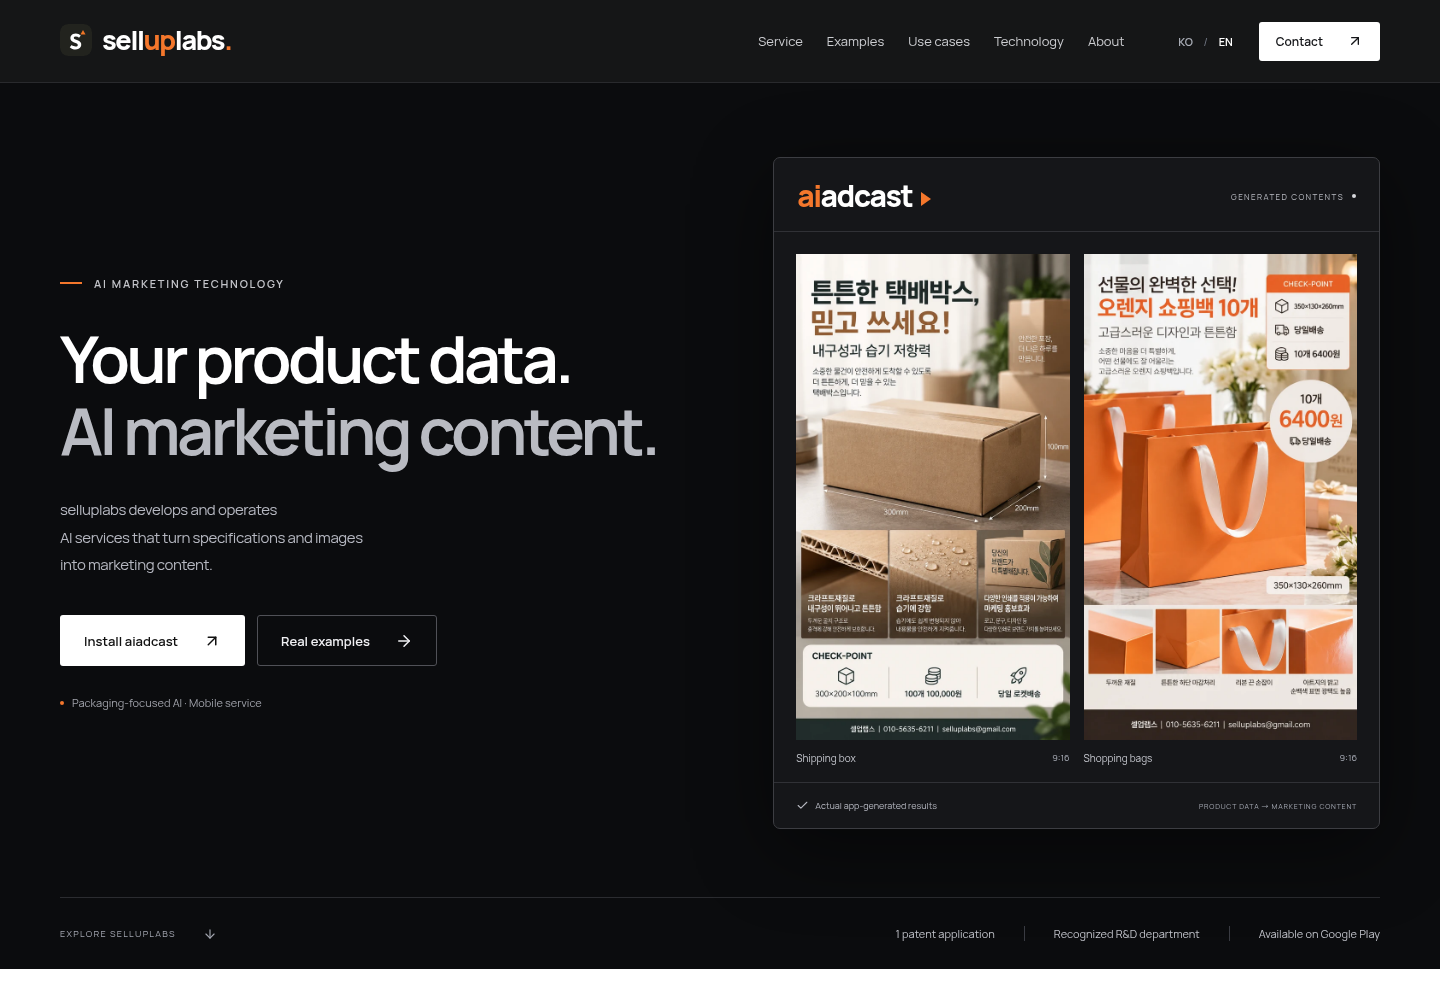
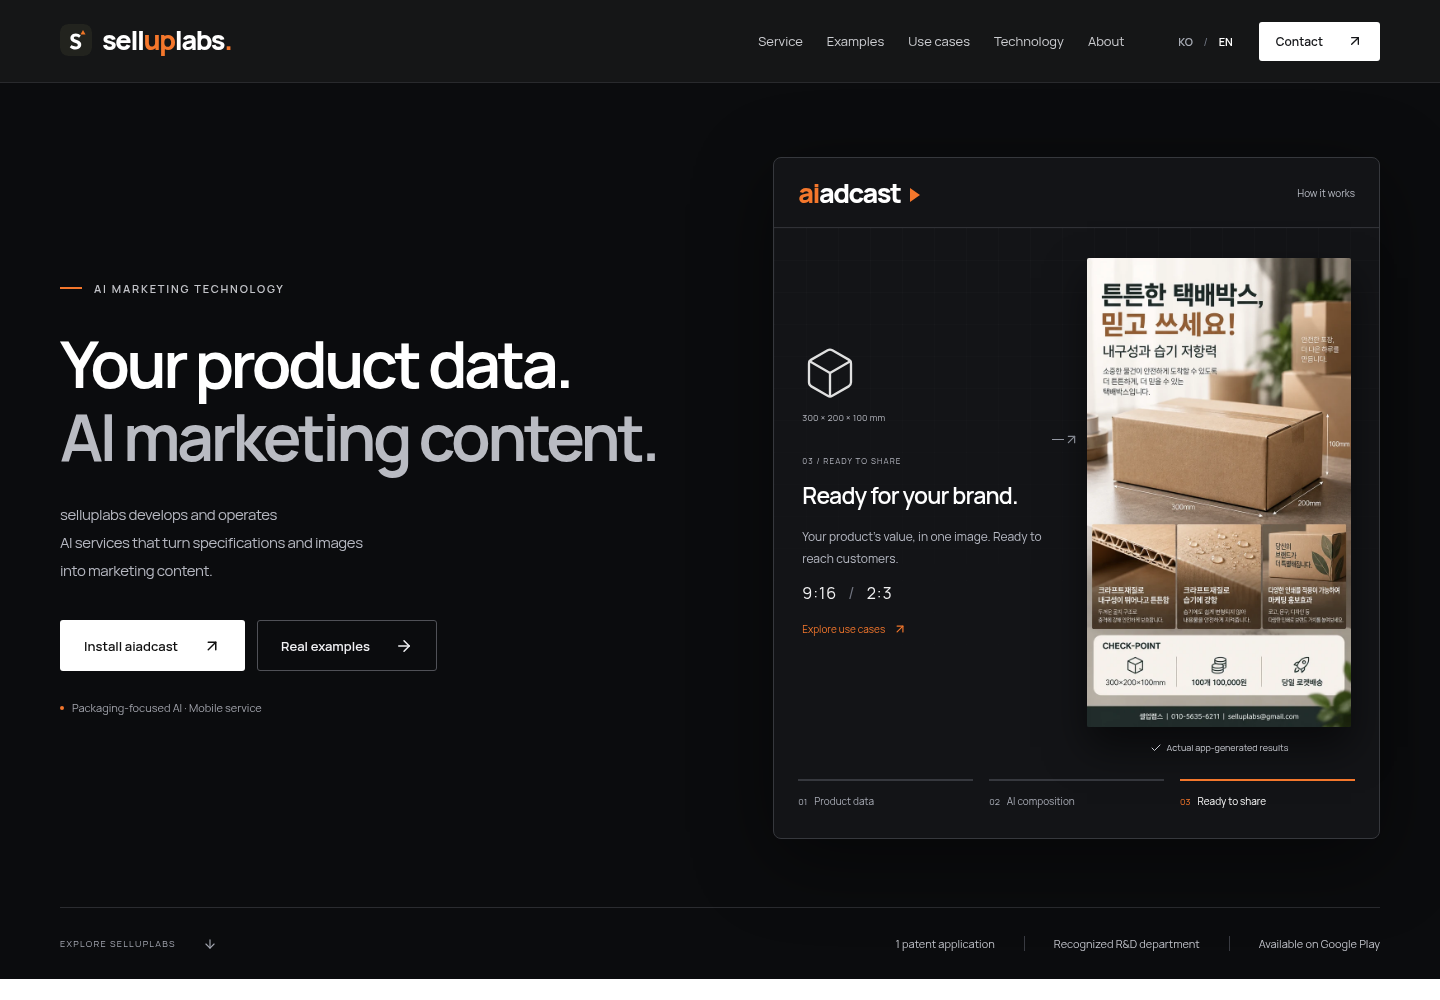
Add interactive product creation story and restrained site motion

diff --git a/src/motion.css b/src/motion.css
@@ -1,0 +1,105 @@
+/* A lightweight product story: original examples, native motion, no video service. */
+.motion-story { position: relative; border-color: #36383d; border-radius: 8px; background: #131417; }
+.story-top { padding: 21px 24px; display: flex; align-items: center; justify-content: space-between; gap: 12px; border-bottom: 1px solid #303136; }
+.story-top .aiadcast-mark { font-size: 27px; }
+.story-controls { display: flex; align-items: center; gap: 12px; color: #b9bcc5; font-size: 10px; }
+.story-controls button { display: grid; place-items: center; width: 34px; height: 34px; border: 1px solid #4c4e55; border-radius: 50%; color: #eee; transition: background .2s; }
+.story-controls button:hover { background: #34363c; }
+.story-canvas { position: relative; isolation: isolate; display: grid; grid-template-columns: .95fr 1fr; align-items: center; gap: 34px; min-height: 384px; padding: 30px 28px 38px; }
+.story-grid { position: absolute; inset: 0; z-index: -1; background-image: linear-gradient(#ffffff04 1px,transparent 1px),linear-gradient(90deg,#ffffff04 1px,transparent 1px); background-size: 32px 32px; mask-image: linear-gradient(#000,transparent); }
+.story-data { align-self: center; min-width: 0; }
+.story-symbol { color: #b8a495; display: flex; flex-direction: column; gap: 10px; margin-bottom: 23px; }
+.story-symbol svg { transition: transform 1s var(--ease), color 1s; }
+.motion-story[data-step="1"] .story-symbol svg { transform: rotate(-12deg); color: var(--orange); }
+.motion-story[data-step="2"] .story-symbol svg { transform: rotate(0); color: #e0e0e0; }
+.story-symbol > span { font-size: 9px; letter-spacing: .2px; color: #b2b4bc; }
+.story-description { min-height: 158px; animation: story-enter .6s var(--ease); }
+.story-kicker { color: #b0b2bb; font-size: 8px; letter-spacing: 1.1px; }
+.story-description h2 { font-size: clamp(17px,1.65vw,23px); line-height: 1.4; letter-spacing: -.8px; margin: 10px 0 15px; color: #fff; }
+.story-specs { margin: 0; font-size: 10px; line-height: 1.75; }
+.story-specs > div { display: flex; flex-wrap: wrap; gap: 3px 10px; justify-content: space-between; border-bottom: 1px solid #ffffff0c; padding: 4px 0; }
+.story-specs dt { color: #a6a9b3; }
+.story-specs dd { margin: 0; color: #e0e1e5; }
+.story-composition { display: grid; gap: 14px; font-size: 11px; line-height: 1.6; color: #d4d5db; }
+.story-composition li { display: flex; gap: 7px; align-items: baseline; }
+.story-composition svg { color: var(--orange); flex-shrink: 0; }
+.story-ready p { color: #b6b9c3; font-size: 12px; line-height: 1.8; word-break: keep-all; }
+.story-ready > span { display: block; margin-top: 13px; color: #f2f2f3; font-size: 16px; letter-spacing: 1px; }
+.story-ready > span span { color: #717580; margin-inline: 7px; }
+.story-ready a { display: inline-flex; align-items: center; gap: 8px; margin-top: 14px; font-size: 10px; color: var(--orange); padding-block: 4px; }
+.story-connector { position: absolute; left: 46%; top: 38%; width: 30px; color: #999da8; display: flex; align-items: center; }
+.story-connector > span { height: 1px; width: 12px; background: currentColor; }
+.story-output { position: relative; transform: perspective(800px) rotateY(-9deg) rotateZ(3deg) scale(.94); transition: transform 1s var(--ease), filter 1s; filter: saturate(.65); box-shadow: 0 20px 38px #0008; }
+.story-output img { border-radius: 2px; }
+.motion-story[data-step="1"] .story-output { transform: perspective(800px) rotateY(-3deg) rotateZ(1deg) scale(.98); filter: saturate(.9); }
+.motion-story[data-step="2"] .story-output { transform: perspective(800px) rotateY(0) rotateZ(0) scale(1); filter: saturate(1); }
+.story-output-label { position: absolute; bottom: -27px; left: 0; right: 0; display: flex; justify-content: center; gap: 5px; align-items: center; font-size: 9px; color: #c9cbd2; white-space: nowrap; }
+.story-scan { display: none; position: absolute; inset: 0; overflow: hidden; pointer-events: none; }
+.motion-story[data-step="1"][data-playing="true"] .story-scan { display: block; }
+.story-scan::after { content: ""; position: absolute; left: 0; right: 0; top: -20%; height: 20%; background: linear-gradient(transparent,#ffffff28); border-bottom: 1px solid #ffffffa0; animation: story-scan 4.8s linear; }
+.story-steps { display: grid; grid-template-columns: repeat(3,minmax(0,1fr)); gap: 16px; padding: 0 24px 22px; }
+.story-steps button { min-height: 51px; color: #a7aab4; text-align: left; padding: 6px 0 0; font-size: 10px; line-height: 1.6; }
+.story-steps button[aria-pressed="true"] { color: #fff; }
+.story-step-number { color: #a8acb6; font-size: 9px; margin-right: 7px; }
+.story-steps button[aria-pressed="true"] .story-step-number { color: var(--orange); }
+.story-step-line { display: block; height: 2px; background: #36383e; margin-bottom: 12px; overflow: hidden; }
+.story-step-line i { display: block; height: 100%; background: var(--orange); transform: scaleX(0); transform-origin: left; }
+.story-steps button[aria-pressed="true"] .story-step-line i { transform: scaleX(1); }
+.motion-story[data-playing="true"] .story-steps button[aria-pressed="true"] .story-step-line i { animation: story-progress 4.8s linear; }
+@keyframes story-progress { from { transform: scaleX(0); } to { transform: scaleX(1); } }
+@keyframes story-scan { to { transform: translateY(600%); } }
+@keyframes story-enter { from { opacity: .3; transform: translateY(8px); } to { opacity: 1; transform: none; } }
+@media (hover: hover) and (prefers-reduced-motion: no-preference) {
+  .gallery-image-button > img { transition: transform .65s var(--ease); }
+  .gallery-image-button:hover > img { transform: translateY(-3px) scale(1.035); }
+  .button-white:hover, .button-dark:hover { transform: translateY(-3px); box-shadow: 0 8px 24px #0002; }
+  .button-white, .button-dark { transition: background .2s, transform .3s var(--ease), box-shadow .3s; }
+  .desktop-nav a { position: relative; }
+  .desktop-nav a::after { content: ""; position: absolute; bottom: 4px; left: 0; right: 0; height: 1px; background: var(--orange); transform: scaleX(0); transform-origin: left; transition: transform .3s var(--ease); }
+  .desktop-nav a:hover::after { transform: scaleX(1); }
+}
+@media (min-width: 681px) and (max-width: 1100px) {
+  .story-canvas { padding: 23px 20px 36px; gap: 20px; min-height: 330px; }
+  .story-symbol { margin-bottom: 17px; }
+  .story-description h2 { font-size: 17px; }
+  .story-top { padding: 17px; }
+  .story-controls { font-size: 9px; gap: 6px; }
+  .story-top .aiadcast-mark { font-size: 23px; }
+  .story-specs, .story-steps button { font-size: 9px; }
+  .story-composition { font-size: 10px; gap: 11px; }
+  .story-steps { padding-inline: 17px; gap: 10px; }
+  .story-connector { display: none; }
+}
+@media (max-width: 680px) {
+  .story-top { padding: 17px; }
+  .story-top .aiadcast-mark { font-size: 25px; }
+  .story-controls { font-size: 9px; gap: 8px; }
+  .story-canvas { gap: 22px; min-height: 320px; padding: 24px 19px 39px; grid-template-columns: .95fr 1fr; }
+  .story-symbol { margin-bottom: 15px; gap: 6px; }
+  .story-symbol svg { width: 42px; height: 42px; }
+  .story-symbol > span { font-size: 8px; }
+  .story-description { min-height: 166px; }
+  .story-description h2 { font-size: 17px; margin-top: 9px; }
+  .story-kicker { font-size: 7px; letter-spacing: .6px; }
+  .story-specs { font-size: 9px; }
+  .story-specs > div { gap: 2px 6px; }
+  .story-composition { font-size: 10px; gap: 11px; }
+  .story-ready p { font-size: 11px; }
+  .story-ready a { font-size: 9px; gap: 3px; }
+  .story-output-label { font-size: 8px; gap: 3px; }
+  .story-connector { display: none; }
+  .story-steps { gap: 12px; padding: 0 17px 16px; }
+  .story-steps button { font-size: 9px; }
+  .story-step-number { display: block; margin: 0 0 3px; }
+}
+@media (max-width: 360px) {
+  .story-canvas { padding-inline: 14px; gap: 16px; }
+  .story-top { padding-inline: 14px; }
+  .story-controls { gap: 5px; font-size: 8px; }
+  .story-description h2 { font-size: 16px; }
+  .story-steps { gap: 9px; padding-inline: 14px; }
+}
+@media (prefers-reduced-motion: reduce) {
+  .story-output, .motion-story[data-step] .story-output { transform: none; filter: none; }
+  .story-scan { display: none !important; }
+}

diff --git a/src/HeroStory.tsx b/src/HeroStory.tsx
@@ -1,0 +1,80 @@
+import { useEffect, useRef, useState } from "react";
+import { ArrowUpRight, Box, Check, Pause, Play, Sparkles } from "lucide-react";
+import { useI18n } from "./i18n";
+import { useReducedMotion } from "./Motion";
+import { generatedCategories } from "./generatedExamples";
+
+const steps = ["상품 정보", "AI 콘텐츠 구성", "홍보 이미지 완성"];
+const example = generatedCategories[0].examples.find((item) => item.id === "box-19")!;
+const duration = 4800;
+
+export function HeroStory() {
+  const { t } = useI18n();
+  const reduced = useReducedMotion();
+  const [step, setStep] = useState(reduced ? 2 : 0);
+  const [paused, setPaused] = useState(false);
+  const [inView, setInView] = useState(false);
+  const [pageVisible, setPageVisible] = useState(!document.hidden);
+  const root = useRef<HTMLDivElement>(null);
+  const playing = !reduced && !paused && inView && pageVisible;
+
+  useEffect(() => {
+    const observer = new IntersectionObserver(([entry]) => setInView(entry.isIntersecting), { threshold: 0.15 });
+    if (root.current) observer.observe(root.current);
+    const visibility = () => setPageVisible(!document.hidden);
+    document.addEventListener("visibilitychange", visibility);
+    return () => { observer.disconnect(); document.removeEventListener("visibilitychange", visibility); };
+  }, []);
+  useEffect(() => {
+    if (!playing) return;
+    const timer = window.setTimeout(() => setStep((value) => (value + 1) % steps.length), duration);
+    return () => window.clearTimeout(timer);
+  }, [step, playing]);
+
+  return (
+    <div ref={root} className="hero-product motion-story" data-step={step} data-playing={playing}
+      aria-label={t("상품 정보가 마케팅 콘텐츠가 되는 과정")}>
+      <div className="story-top">
+        <span className="aiadcast-mark" aria-label="aiadcast"><span>ai</span>adcast<i aria-hidden="true" /></span>
+        <div className="story-controls">
+          <span>{t("생성 과정 예시")}</span>
+          {!reduced && <button type="button" onClick={() => setPaused(!paused)} aria-label={t(paused ? "자동 전환 재생" : "자동 전환 일시정지")} title={t(paused ? "자동 전환 재생" : "자동 전환 일시정지")}>
+            {paused ? <Play size={14} aria-hidden="true" /> : <Pause size={14} aria-hidden="true" />}
+          </button>}
+        </div>
+      </div>
+      <div className="story-canvas" id="hero-story-panel">
+        <div className="story-grid" aria-hidden="true" />
+        <div className="story-data">
+          <div className="story-symbol" aria-hidden="true"><Box size={56} strokeWidth={1} /><span>300 × 200 × 100 mm</span></div>
+          <div className="story-description" key={step}>
+            <span className="story-kicker">{["01 / PRODUCT DATA", "02 / AI COMPOSITION", "03 / READY TO SHARE"][step]}</span>
+            <h2>{t(["상품의 정보가", "하나의 콘텐츠로", "브랜드의 기회로."][step])}</h2>
+            {step === 0 && <dl className="story-specs">
+              <div><dt>{t("상품명")}</dt><dd>{t("크라프트 택배박스")}</dd></div>
+              <div><dt>{t("규격")}</dt><dd>300 × 200 × 100 mm</dd></div>
+              <div><dt>{t("소재")}</dt><dd>{t("크라프트")}</dd></div>
+              <div><dt>{t("기업 정보")}</dt><dd>selluplabs</dd></div>
+            </dl>}
+            {step === 1 && <ul className="story-composition">
+              {["규격을 반영한 상품 이미지", "제품의 강점을 담은 문구", "회사 정보와 연락처"].map((copy) => <li key={copy}><Sparkles size={12} aria-hidden="true" />{t(copy)}</li>)}
+            </ul>}
+            {step === 2 && <div className="story-ready"><p>{t("상품의 가치를 한 장에 담아, 고객과 만날 준비.")}</p><span>9:16 <span> / </span> 2:3</span><a href="#applications" onFocus={() => setPaused(true)}>{t("어디에 활용할까요?")}<ArrowUpRight size={14} aria-hidden="true" /></a></div>}
+          </div>
+        </div>
+        <div className="story-connector" aria-hidden="true"><span /><ArrowUpRight size={15} /></div>
+        <a className="hero-result story-output" href="#cases" aria-label={t("실제 생성 사례 보기")}>
+          <img src={example.thumbnail} width={example.width} height={example.height} alt={t(example.alt)} fetchPriority="high" />
+          <span className="story-scan" aria-hidden="true" />
+          <span className="story-output-label"><Check size={12} aria-hidden="true" />{t("실제 앱 생성 결과")}</span>
+        </a>
+      </div>
+      <div className="story-steps" role="group" aria-label={t("생성 과정 단계 선택")}>
+        {steps.map((label, index) => <button type="button" key={label} aria-pressed={step === index} aria-controls="hero-story-panel" onClick={() => { setStep(index); setPaused(true); }}>
+          <span className="story-step-line"><i key={`${step}-${playing}`} /></span>
+          <span className="story-step-number">0{index + 1}</span><span>{t(label)}</span>
+        </button>)}
+      </div>
+    </div>
+  );
+}

diff --git a/src/App.tsx b/src/App.tsx
@@ -1,10 +1,11 @@
+import { HeroStory } from "./HeroStory";
+import { useScrollReveal } from "./Motion";
 import { useI18n } from "./i18n";
 import { useEffect, useRef, useState } from "react";
 import {
   ArrowDown,
   ArrowRight,
   ArrowUpRight,
-  Check,
   Mail,
   Menu,
   Plus,
@@ -64,6 +65,7 @@ function AiadcastMark({ className = "" }: { className?: string }) {
   );
 }
 export default function App() {
+  useScrollReveal();
   const { t, language, setLanguage, localize } = useI18n();
   const navigation = localize(navigationCopy);
   const faqs = localize(faqCopy);
@@ -211,55 +213,7 @@ export default function App() {
                 {t(" 포장재 특화 AI · 모바일 서비스")}
               </div>
             </div>
-            <div
-              className="hero-product"
-              aria-label={t("aiadcast 실제 마케팅 콘텐츠 생성 결과")}
-            >
-              <div className="product-window-top">
-                <AiadcastMark />
-                <span>
-                  GENERATED CONTENTS <span className="status-dot" />
-                </span>
-              </div>
-              <div className="hero-results">
-                <a href="#cases" className="hero-result">
-                  <img
-                    src="/images/examples/previews/box-19-20261008.webp"
-                    width="1008"
-                    height="1792"
-                    alt={t(
-                      "aiadcast가 생성한 크라프트 택배박스 홍보 이미지. 상품 규격과 설명 문구가 함께 구성되어 있습니다.",
-                    )}
-                    fetchPriority="high"
-                  />
-                  <div>
-                    <span>{t("택배박스")}</span>
-                    <span>9:16</span>
-                  </div>
-                </a>
-                <a href="#cases" className="hero-result">
-                  <img
-                    src="/images/examples/previews/bag-1.webp"
-                    width="1008"
-                    height="1792"
-                    alt={t(
-                      "aiadcast가 생성한 오렌지 쇼핑백 홍보 이미지. 제품 특징과 회사 정보가 함께 구성되어 있습니다.",
-                    )}
-                  />
-                  <div>
-                    <span>{t("쇼핑백")}</span>
-                    <span>9:16</span>
-                  </div>
-                </a>
-              </div>
-              <div className="product-window-bottom">
-                <span>
-                  <Check size={13} />
-                  {t(" 실제 앱 생성 결과")}
-                </span>
-                <span>PRODUCT DATA → MARKETING CONTENT</span>
-              </div>
-            </div>
+            <HeroStory />
           </div>
           <div className="hero-base wrap">
             <a href="#service" className="scroll-link">

diff --git a/tests/homepage.spec.ts b/tests/homepage.spec.ts
@@ -655,3 +655,51 @@ test("English layout and language controls fit phones, tablets and desktop scree
     ).toBeVisible();
   }
 });
+
+test("hero story respects reduced motion and allows each step in both languages", async ({ page }) => {
+  const story = page.locator(".motion-story");
+  await story.scrollIntoViewIfNeeded();
+  await expect(story).toHaveAttribute("data-playing", "false");
+  await expect(story).toHaveAttribute("data-step", "2");
+  await expect(story.getByRole("button", { name: "자동 전환 일시정지" })).toHaveCount(0);
+  for (const label of ["상품 정보", "AI 콘텐츠 구성", "홍보 이미지 완성"]) {
+    const control = story.getByRole("button", { name: label });
+    await control.click();
+    await expect(control).toHaveAttribute("aria-pressed", "true");
+    await expect(story.locator(".story-description")).toBeVisible();
+  }
+  await page.getByRole("button", { name: "English", exact: true }).click();
+  await story.getByRole("button", { name: "AI composition" }).click();
+  expect(await story.innerText()).not.toMatch(/[가-힣]/);
+  await expect(story.getByRole("link", { name: "View actual generated examples" })).toHaveAttribute("href", "#cases");
+});
+
+test("hero automatic sequence can pause, resume and stops outside the viewport", async ({ page }) => {
+  await page.emulateMedia({ reducedMotion: "no-preference" });
+  await page.clock.install();
+  await page.reload();
+  const story = page.locator(".motion-story");
+  await story.scrollIntoViewIfNeeded();
+  await expect(story).toHaveAttribute("data-playing", "true");
+  await expect(story).toHaveAttribute("data-step", "0");
+  await page.clock.fastForward(4900);
+  await expect(story).toHaveAttribute("data-step", "1");
+  await story.getByRole("button", { name: "자동 전환 일시정지" }).click();
+  await page.clock.fastForward(10000);
+  await expect(story).toHaveAttribute("data-step", "1");
+  await story.getByRole("button", { name: "홍보 이미지 완성" }).click();
+  await expect(story).toHaveAttribute("data-step", "2");
+  await page.clock.fastForward(10000);
+  await expect(story).toHaveAttribute("data-step", "2");
+  await story.getByRole("button", { name: "자동 전환 재생" }).click();
+  await page.clock.fastForward(4900);
+  await expect(story).toHaveAttribute("data-step", "0");
+  await page.locator("#about").scrollIntoViewIfNeeded();
+  await expect(story).toHaveAttribute("data-playing", "false");
+  await page.clock.fastForward(10000);
+  await expect(story).toHaveAttribute("data-step", "0");
+  await story.scrollIntoViewIfNeeded();
+  await expect(story).toHaveAttribute("data-playing", "true");
+  await page.emulateMedia({ reducedMotion: "reduce" });
+  await expect(story).toHaveAttribute("data-playing", "false");
+});

diff --git a/src/Motion.ts b/src/Motion.ts
@@ -1,0 +1,40 @@
+import { useEffect, useState } from "react";
+
+export function useReducedMotion() {
+  const [reduced, setReduced] = useState(() =>
+    window.matchMedia("(prefers-reduced-motion: reduce)").matches,
+  );
+  useEffect(() => {
+    const query = window.matchMedia("(prefers-reduced-motion: reduce)");
+    const update = () => setReduced(query.matches);
+    query.addEventListener("change", update);
+    return () => query.removeEventListener("change", update);
+  }, []);
+  return reduced;
+}
+
+// Content stays visible without observers or animation support.
+export function useScrollReveal() {
+  const reduced = useReducedMotion();
+  useEffect(() => {
+    if (reduced || !("IntersectionObserver" in window)) return;
+    const animations = new Set<Animation>();
+    const observer = new IntersectionObserver((entries) => {
+      for (const entry of entries) {
+        if (!entry.isIntersecting) continue;
+        observer.unobserve(entry.target);
+        const animation = entry.target.animate(
+          [{ opacity: 0.35, transform: "translateY(20px)" }, { opacity: 1, transform: "none" }],
+          { duration: 650, easing: "cubic-bezier(.2,.7,.2,1)" },
+        );
+        animations.add(animation);
+        animation.onfinish = () => animations.delete(animation);
+      }
+    }, { threshold: 0.12 });
+    document.querySelectorAll(".section-eyebrow, .section-heading, .service-intro, .workflow-step, .service-output, .about-grid, .contact-grid, .install-copy").forEach((node) => observer.observe(node));
+    return () => {
+      observer.disconnect();
+      animations.forEach((animation) => animation.cancel());
+    };
+  }, [reduced]);
+}

diff --git a/src/main.tsx b/src/main.tsx
@@ -7,6 +7,7 @@ import "./marketing.css";
 import App from "./App";
 import { LanguageProvider } from "./i18n";
 import "./international.css";
+import "./motion.css";
 
 ReactDOM.createRoot(document.getElementById("root")!).render(
   <React.StrictMode>

diff --git a/docs/higgsfield-video-brief.md b/docs/higgsfield-video-brief.md
@@ -1,0 +1,30 @@
+# 셀업랩스 첫 화면 영상 제작안
+
+현재 홈페이지에는 실제 aiadcast 생성 이미지와 웹 애니메이션으로 만든 3단계 소개가 적용되어 있습니다. 추가 영상 서비스나 API를 호출하지 않습니다. 아래는 이후 힉스필드에서 짧은 브랜드 영상을 만들 때 사용할 제작안입니다. 현재 힉스필드 연동이나 영상 생성은 수행하지 않았습니다.
+
+## 최소 제작 범위
+
+- 영상 한 개, 6~8초, 무음. 무료 계정에서 지원하는 가장 가까운 길이를 사용합니다.
+- 힉스필드에서 제공되는 무료 크레딧, 다운로드, 워터마크, 상업적 사용 범위를 계정 화면에서 확인합니다. 무료 사용 범위가 충분할 때만 생성합니다.
+- 첫 시안은 720p로 확인하고 만족하면 웹용으로 압축합니다. 추가 생성 횟수를 최소화합니다.
+- 영상에는 포장재의 형태와 질감만 표현하고, 상품 규격·한글 문구·로고는 홈페이지의 선명한 텍스트와 실제 생성 이미지로 보여줍니다.
+
+## 장면 구성
+
+0~2초: 차콜색 스튜디오 바닥 위 크라프트 박스 한 개. 측면 조명이 종이 질감을 비춥니다.
+
+2~5초: 카메라가 천천히 약간 이동하며 가로·세로·높이를 연상시키는 얇은 선이 박스 주변에 나타납니다. 숫자와 문자는 넣지 않습니다.
+
+5~8초: 조명이 부드럽게 이동하며 첫 구도로 돌아옵니다. 실제 aiadcast 결과물과 설치 버튼은 웹 화면에서 함께 보여줍니다.
+
+## 힉스필드용 프롬프트
+
+> Create a restrained, premium technology brand film, 6–8 seconds, silent, designed for a seamless loop. A single realistic kraft cardboard shipping box sits on a charcoal-black studio surface. Preserve a believable rectangular box shape and natural paper texture. Use a very slow, subtle camera arc, soft directional studio lighting and a small warm orange edge light. Fine, precise white dimension lines gently appear around the box, with no numbers or letters. The light and camera gradually return to the opening composition. Minimal black, white and warm orange palette, editorial product photography, calm confidence, realistic materials, generous negative space. No text, no logos, no people, no particles, no explosions, no morphing, no fast cuts, no sound.
+
+## 홈페이지 적용 시
+
+- 로컬 MP4 파일을 현재 Cloudflare 정적 자산으로 배포합니다. 힉스필드 API 연결은 필요하지 않습니다.
+- 목표 파일 크기는 약 1~2 MB입니다. 실제 화질을 확인해 조정합니다.
+- `muted`, `playsInline`, `loop`와 대표 이미지를 사용합니다. 자동 재생이 차단되면 대표 이미지가 표시되어야 합니다.
+- 움직임 줄이기 또는 데이터 절약 설정에서는 영상을 자동 로드·재생하지 않습니다. 화면 밖이나 다른 탭에서는 재생을 멈춥니다.
+- 영상은 브랜드 연출용입니다. 앱이 동영상 자체를 생성한다고 소개하지 않습니다.
